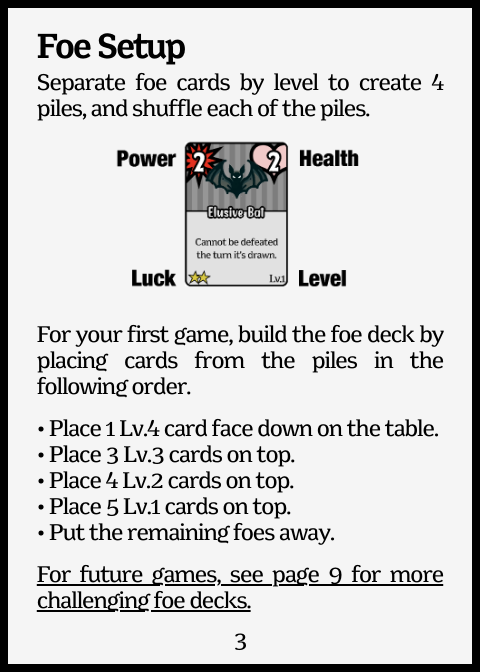
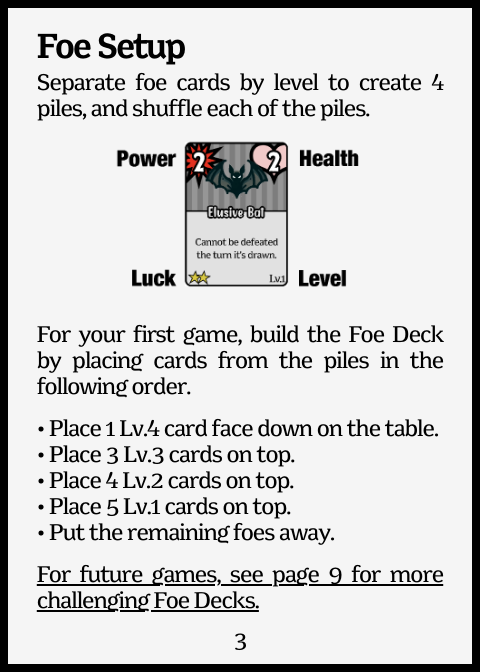
Update instructions

Changed region(s): [[0.0625, 0.4688, 0.9375, 0.5625], [0.3125, 0.875, 0.5312, 0.9062]]

diff --git a/index.html b/index.html
@@ -169,104 +169,42 @@
 
     <div id="rules" class="px-[20px]">
 
-        <h1 class="text-xl font-black mt-8 text-teal-500">Contents</h1>
-        <p class="mb-4">
-            &bull; 34 Athlete cards<br>
-            &bull; 34 Inventor cards<br>
-            &bull; 34 Musician cards<br>
-            &bull; 34 Artist cards<br>
-            &bull; 40 Foe cards<br>
-        </p>
 
-        <h1 class="text-xl font-black mt-8 text-teal-500 text-teal-500">Overview</h1>
-        <p class="mb-4">Each player chooses a character and starts with a deck of 10 Starter cards. Each turn players must attack foes, and then defend against those that weren't defeated. Defeated foes reward Luck that can be used to purchase new cards. Each player has 5 health, and can no longer play when it reaches 0. If all players have 0 health, they lose. Players win when they defeat all foes.</p>
-
-        <h1 class="text-xl font-black mt-8 text-teal-500">Player Setup</h1>
-        <p class="mb-4">Each player selects a character, and gathers their cards. The 10 cards labeled "Starter" are used to create the starting deck. The remaining cards are shuffled, and become the Loot Deck. 3 Loot Piles are made by laying out 3 cards from the Loot Deck face up on the table.</p>
-
-        <h1 class="text-xl font-black mt-8 text-teal-500">Foe Setup</h1>
-        <p class="mb-4">Separate foe cards by their Lv (Level) into 4 piles, and shuffle them. Build the foe deck by placing cards in the following order.<br>
-            &bull; Place 2 Lv3 cards face down on the table.<br>
-            &bull; Place 1 Lv4 card on top.<br>
-            &bull; Place 7 Lv3 cards on top.<br>
-            &bull; Place 6 Lv2 cards on top.<br>
-            &bull; Place 5 Lv1 cards on top.<br>
-            &bull; Put the remaining foes away.
-        </p>
-
-        <h1 class="text-xl font-black mt-8 text-teal-500">Play</h1>
-        <p class="mb-4">Players play each turn together at the same time. Each turn has four phases, and occur in this order: 1) Starting Phase 2) Attack Phase 3) Defend Phase 4) Loot Phase</p>
-
-        <h1 class="text-xl font-black mt-8 text-teal-500">1) Starting Phase</h1>
-        <p class="mb-4">Each player draws 5 cards from their deck. If there are no cards left to draw, shuffle the discard pile to become the new deck, and continue drawing. If the board has less than 3 foes, draw them face up until it does.</p>
-
-        <h1 class="text-xl font-black mt-8 text-teal-500">2) Attack Phase</h1>
-        <p class="mb-4">Players place their cards with <img class="inline-block rounded-md p-px w-auto h-6 bg-white" src="stats/power.png"> (Power) face up near foes to indicate they want to damage it. Players should discuss how to split their cards between foes for the best results. Once all players agree on a plan, damage is dealt. If a foe takes <img class="inline-block rounded-md p-px w-auto h-6 bg-white" src="stats/power.png"> equal to or greater than their <img class="inline-block rounded-md p-px w-auto h-6 bg-white" src="stats/health.png"> (Health), they are defeated and set aside.</p>
-
-        <h1 class="text-xl font-black mt-8 text-teal-500">3) Defend Phase</h1>
-        <p class="mb-4">The foes remaining from the attack phase now damage the players. Each foe attacks each player, dealing damage equal to its <img class="inline-block rounded-md p-px w-auto h-6 bg-white" src="stats/power.png">. Players place their cards with <img class="inline-block rounded-md p-px w-auto h-6 bg-white" src="stats/block.png"> (Block) face up near foes to indicate they wish to defend against it. If a player does not have enough <img class="inline-block rounded-md p-px w-auto h-6 bg-white" src="stats/block.png"> to defend from a foe, they lose only 1 health regardless of how much Power is left unblocked.</p>
-
-        <h1 class="text-xl font-black mt-8 text-teal-500">4) Loot Phase</h1>
-        <p class="mb-4">Each defeated foe rewards <img class="inline-block rounded-md p-px w-auto h-6 bg-white" src="stats/luck.png"> (Luck) to each player. That Luck can be spent to purchase cards from the player's Loot Piles. Players may also spend 1 Luck to reveal a Loot card and place it in a Loot Pile. When this phase is over, players may either reveal a Loot card, or fill empty Loot Piles. After the Loot Phase players return their cards to their discard pile, and defeated foes are placed in their discard pile.</p>
-
-        <h1 class="text-xl font-black mt-8 text-teal-500">Card Rules</h1>
-        <p class="mb-4">Cards can have up to two actions that can be taken in any order, and whenever the player would like. A player may use one or both actions unless it says "or" in which case they can only take one, or it says "and" in which they must take both. Cards always refer to the player that owns it, unless otherwise noted. Effects from cards only last while in play.</p>
-
-        <h1 class="text-xl font-black mt-8 text-teal-500">Foe Rules</h1>
-        <p class="mb-4">If a foe requires a player to do something, each player must do it unless otherwise noted. Some foes trigger events at certain moments (When drawn, when defeated). If more than one thing would happen at the same time, players decide the order.</p>
-
-        <h1 class="text-xl font-black mt-8 text-teal-500">Stat Groups</h1>
-        <p class="mb-4">Stat groups (<img class="inline-block rounded-md p-px w-auto h-6 bg-white" src="stats/power2.png">, <img class="inline-block rounded-md p-px w-auto h-6 bg-white" src="stats/block2.png">) cannot be split between targets. Power groups can only damage 1 foe, while Block groups can only defend from 1 foe.</p>
-
-        <h1 class="text-xl font-black mt-8 text-teal-500">3-4 Player Games</h1>
-        <p class="mb-4">3 and 4 player games have slightly different rules than a 2 player game. Instead of a 10 card starting deck, 2 <img class="inline-block rounded-md p-px w-auto h-6 bg-white" src="stats/power.png"> cards are removed making an 8 card deck. Instead of having a hand size of 5 cards, players have 4. The Foe deck is built differently as well, with foes being placed down in the order of the following chart.</p>
-
-        <table class="border-collapse border border-slate-500 mb-4">
-            <tr>
-                <td class="p-2 border border-slate-500"></td>
-                <td class="p-2 border border-slate-500">Lv.3</td>
-                <td class="p-2 border border-slate-500">Lv.4</td>
-                <td class="p-2 border border-slate-500">Lv.3</td>
-                <td class="p-2 border border-slate-500">Lv.2</td>
-                <td class="p-2 border border-slate-500">Lv.1</td>
-            </tr>
-            <tr>
-                <td class="p-2 border border-slate-500">3 Players</td>
-                <td class="p-2 border border-slate-500">2</td>
-                <td class="p-2 border border-slate-500">1</td>
-                <td class="p-2 border border-slate-500">8</td>
-                <td class="p-2 border border-slate-500">6</td>
-                <td class="p-2 border border-slate-500">4</td>
-            </tr>
-            <tr>
-                <td class="p-2 border border-slate-500">4 Players</td>
-                <td class="p-2 border border-slate-500">2</td>
-                <td class="p-2 border border-slate-500">1</td>
-                <td class="p-2 border border-slate-500">9</td>
-                <td class="p-2 border border-slate-500">6</td>
-                <td class="p-2 border border-slate-500">3</td>
-            </tr>
-        </table>
-
-        <h1 class="text-xl font-black mt-8 text-teal-500">Trash</h1>
-        <p class="mb-4">Each player has a trash pile that contains cards that are no longer in the game. When a card is trashed it is set in this pile.</p>
-
-        <h1 class="text-xl font-black mt-8 text-teal-500">Stash</h1>
-        <p class="mb-4">When a card is stashed, it's set aside by the player, not to be returned to its discard pile. It can then be used on a later turn.</p>
-
-        <h1 class="text-xl font-black mt-8 text-teal-500">Energy</h1>
-        <p class="mb-4">Inventors have a running score called energy. Cards give the player energy that remains for the entire game. Some cards have actions that require the player to have scored a minimum amount of energy.</p>
-
-        <h1 class="text-xl font-black mt-8 text-teal-500">Music</h1>
-        <p class="mb-4">Musicians cards may have an action that gives <img class="inline-block rounded-md p-0.5 w-auto h-6 bg-white" src="stats/music.png"> (Music). Other cards may spend it to perform certain actions.</p>
-
-        <h1 class="text-xl font-black mt-8 text-teal-500">Paint</h1>
-        <p class="mb-4">Artists have several cards with "Paint" in the name. When these cards are played with other paint cards, they are mixed and perform an action.</p>
-
-
-
-
-
+        <ul class="flex flex-wrap justify-start mt-12">
+            <li class="w-4/5 sm:w-1/2 p-2 relative">
+                <img src="cards/Page_1.png" class="overflow-hidden">
+            </li>
+            <li class="w-4/5 sm:w-1/2 p-2 relative">
+                <img src="cards/Page_2.png" class="overflow-hidden">
+            </li>
+            <li class="w-4/5 sm:w-1/2 p-2 relative">
+                <img src="cards/Page_3.png" class="overflow-hidden">
+            </li>
+            <li class="w-4/5 sm:w-1/2 p-2 relative">
+                <img src="cards/Page_4.png" class="overflow-hidden">
+            </li>
+            <li class="w-4/5 sm:w-1/2 p-2 relative">
+                <img src="cards/Page_5.png" class="overflow-hidden">
+            </li>
+            <li class="w-4/5 sm:w-1/2 p-2 relative">
+                <img src="cards/Page_6.png" class="overflow-hidden">
+            </li>
+            <li class="w-4/5 sm:w-1/2 p-2 relative">
+                <img src="cards/Page_7.png" class="overflow-hidden">
+            </li>
+            <li class="w-4/5 sm:w-1/2 p-2 relative">
+                <img src="cards/Page_8.png" class="overflow-hidden">
+            </li>
+            <li class="w-4/5 sm:w-1/2 p-2 relative">
+                <img src="cards/Page_9.png" class="overflow-hidden">
+            </li>
+            <li class="w-4/5 sm:w-1/2 p-2 relative">
+                <img src="cards/Page_10.png" class="overflow-hidden">
+            </li>
+            <li class="w-4/5 sm:w-1/2 p-2 relative">
+                <img src="cards/Page_11.png" class="overflow-hidden">
+            </li>
+        </ul>
 
     </div>
 

diff --git a/card-builder/dist/style.css b/card-builder/dist/style.css
@@ -741,6 +741,14 @@ button {
     margin: 0 0 16px 0;
     width: 100%;
     border-collapse: collapse;
+    font-size: 11px;
+}
+.page table td:first-child {
+    text-align: left;
+}
+.page table td {
+    font-size: 11px;
+    text-align: center;
 }
 .page table .order td {
     border-bottom: 1px solid #000;

diff --git a/card-builder/dist/index.php b/card-builder/dist/index.php
@@ -392,7 +392,7 @@
 
 
                 <h2>Objective</h2>
-                <p>The players win when all foes in the foe deck have been defeated. The players lose if they are all out of health.</p>
+                <p>The players win when all foes in the Foe Deck have been defeated. The players lose if they are all out of Health.</p>
 
                 <div class="number">1</div>
             </div>
@@ -407,7 +407,7 @@
             <div class="page-rules">
 
                 <h2>Player Setup</h2>
-                <p>Each player chooses their character, and gathers their cards. The ten Starter cards are removed to make the player's starting deck. (In 3-4 player games remove two power <span class="stat stat-1 power"><img src="extras/power.png"></span> cards.) The remaining cards are shuffled, becoming the Loot Deck. Three of these are drawn face up making the Loot Pile.</p>
+                <p>Each player chooses their character, and gathers their cards. The ten Starter cards are removed to make the player's starting deck. (In 3-4 player games remove two Power <span class="stat stat-1 power"><img src="extras/power.png"></span> cards.) The remaining cards are shuffled, becoming the Loot Deck. Three of these are drawn face up making the Loot Pile.</p>
 
                 <img src="extras/player-setup.png" alt="Diagram showing the player's board" class="rule-image">
 
@@ -429,13 +429,13 @@
 
                 <img src="extras/foe-details.png" class="rule-image" alt="Diagram showing how to assemble the first foe deck">
 
-                <p>For your first game, build the foe deck by placing cards from the piles in the following order.</p>
+                <p>For your first game, build the Foe Deck by placing cards from the piles in the following order.</p>
                 <p>• Place 1 Lv.4 card face down on the table.<br/>
                     • Place 3 Lv.3 cards on top.<br/>
                     • Place 4 Lv.2 cards on top.<br/>
                     • Place 5 Lv.1 cards on top.<br/>
                     • Put the remaining foes away.</p>
-                <p><u>For future games, see page 9 for more challenging foe decks.</u></p>
+                <p><u>For future games, see page 9 for more challenging Foe Decks.</u></p>
 
                 <div class="number">3</div>
             </div>
@@ -449,14 +449,14 @@
             <div class="page-rules">
 
                 <h2>Turns</h2>
-                <p>Each turn players draw 5 cards from their deck and place them on the table (4 cards in a 3-4 player game). If a player must draw but has no cards, shuffle the discard pile to rebuild the deck, and continue drawing.</p>
-                <p>Then if the board has less than 3 foes, draw them face up from the foe deck until it does.</p>
+                <p>Each turn players draw 5 cards from their deck and place them face up on the table (4 cards in a 3-4 player game). If a player must draw but has no cards, shuffle the discard pile to rebuild the deck, and continue drawing.</p>
+                <p>Then if the board has less than 3 foes, draw them face up from the Foe Deck until it does.</p>
                 <h3>Phase 1) Attack</h3>
-                <p>Players combine their power <span class="stat stat-1 power"><img src="extras/power.png" class="rule-image"></span> to defeat foes.</p>
+                <p>Players combine their Power <span class="stat stat-1 power"><img src="extras/power.png" class="rule-image"></span> to defeat foes.</p>
                 <h3>Phase 2) Defend</h3>
-                <p>Each player defends from foes using their block <span class="stat stat-1 block"><img src="extras/block.png" class="rule-image"></span>.</p>
+                <p>Each player defends from foes using their Block <span class="stat stat-1 block"><img src="extras/block.png" class="rule-image"></span>.</p>
                 <h3>Phase 3) Loot</h3>
-                <p>Each player buys loot with luck <span class="stat stat-1 luck"><img src="extras/luck.png" class="rule-image"></span> gained from defeated foes.</p>
+                <p>Each player buys loot cards with Luck <span class="stat stat-1 luck"><img src="extras/luck.png" class="rule-image"></span> gained from defeated foes.</p>
 
                 <div class="number">4</div>
             </div>
@@ -469,7 +469,7 @@
 
             <div class="page-rules">
                 <h2>Phase 1) Attack</h2>
-                <p>Players should discuss with each other how much power <span class="stat stat-1 power"><img src="extras/power.png" class="rule-image"></span> they have and how to distribute it amongst the foes. To defeat a foe use power on it equal to or greater than its health.</p>
+                <p>Players should discuss with each other how much Power <span class="stat stat-1 power"><img src="extras/power.png" class="rule-image"></span> they have and how to distribute it amongst the foes. To defeat a foe use Power on it equal to or greater than its Health.</p>
 
                 <img src="extras/power-example.png" class="rule-image" alt="Diagram showing how Power is used against foes">
                 <p>Power groups <span class="stat stat-2 power"><img src="extras/power2.png" class="rule-image"></span> <span class="stat stat-3 power"><img src="extras/power3.png" class="rule-image"></span> cannot be split between targets, and can only damage 1 foe.</p>
@@ -487,7 +487,7 @@
 
 
                 <h2>Phase 2) Defend</h2>
-                <p>Each remaining foe attacks each player with its power. A player must use their block <span class="stat stat-1 block"><img src="extras/block.png" class="rule-image"></span> equal to or greater than the foes power, or they lose 1 health.</p>
+                <p>Each remaining foe attacks each player with its Power. A player must use their Block <span class="stat stat-1 block"><img src="extras/block.png" class="rule-image"></span> equal to or greater than the foes Power, or they lose 1 Health.</p>
 
                 <img src="extras/block-example.png" alt="Diagram showing how Block defends against foes" class="rule-image">
                 <p>Block groups <span class="stat stat-2 block"><img src="extras/block2.png" class="rule-image"></span> <span class="stat stat-3 block"><img src="extras/block3.png" class="rule-image"></span> cannot be split between targets, and can only defend against 1 foe.</p>
@@ -504,8 +504,8 @@
             <div class="page-rules">
 
                 <h2>Phase 3) Loot</h2>
-                <p>Players draw one card from their loot deck for free, and place it in their loot pile. Further draws cost 1 luck <span class="stat stat-1 luck"><img src="extras/luck.png" class="rule-image"></span>.</p>
-                <p>Defeated foes reward luck to each player, which can then be spent to buy cards from their loot pile.</p>
+                <p>Players draw one card from their Loot Deck for free, and place it in their Loot Pile. Further draws cost 1 luck <span class="stat stat-1 luck"><img src="extras/luck.png" class="rule-image"></span>.</p>
+                <p>Defeated foes reward Luck to each player. This can be spent to buy any cards from their Loot Pile so long as they have enough Luck.</p>
                 <img src="extras/luck-example.png" alt="" class="rule-image">
 
                 <div class="number">7</div>
@@ -541,9 +541,9 @@
 
             <div class="page-rules">
                 <h2>Rule Sets</h2>
-                <p>Players may build a foe deck with a different number of foes for different experiences.</p>
+                <p>Players may build a Foe Deck with a different number of foes for different experiences.</p>
 
-                <p>Separate foe cards by level to create 4 piles, and shuffle each of the piles. Build the foe deck by placing cards from the piles in the following order.</p>
+                <p>Separate foe cards by Level to create 4 piles, and shuffle each of the piles. Build the Foe Deck by placing cards from the piles in the following order.</p>
 
                 <table>
                     <tbody>
@@ -618,7 +618,7 @@
                 <p>Artists can stash cards. A stashed card is set aside by the player, not to be returned to its discard pile. It can then be used on a future turn.</p>
 
                 <h3>Mixing</h3>
-                <p>The artist may get additional actions by mixing Paints. Paints are considered mixed when there are at least two cards with "Paint" in the name.</p>
+                <p>The Artist may get additional actions by mixing Paints. Paints are considered mixed when there are at least two cards with "Paint" in the name.</p>
 
                 <div class="number">10</div>
             </div>
@@ -637,7 +637,7 @@
                 <img src="extras/music-energy-example.png" alt="" class="rule-image">
 
                 <h3>Energy</h3>
-                <p>The inventor may get additional actions when they have at least a specified amount of energy. Energy is a running score that can be gained from cards.</p>
+                <p>The Inventor may get additional actions when they have at least a specified amount of Energy. Energy is a running score that can be gained from cards.</p>
 
                 <h3>Repair</h3>
                 <p>Inventors can repair cards by returning them to the bottom of a player's deck.</p>
